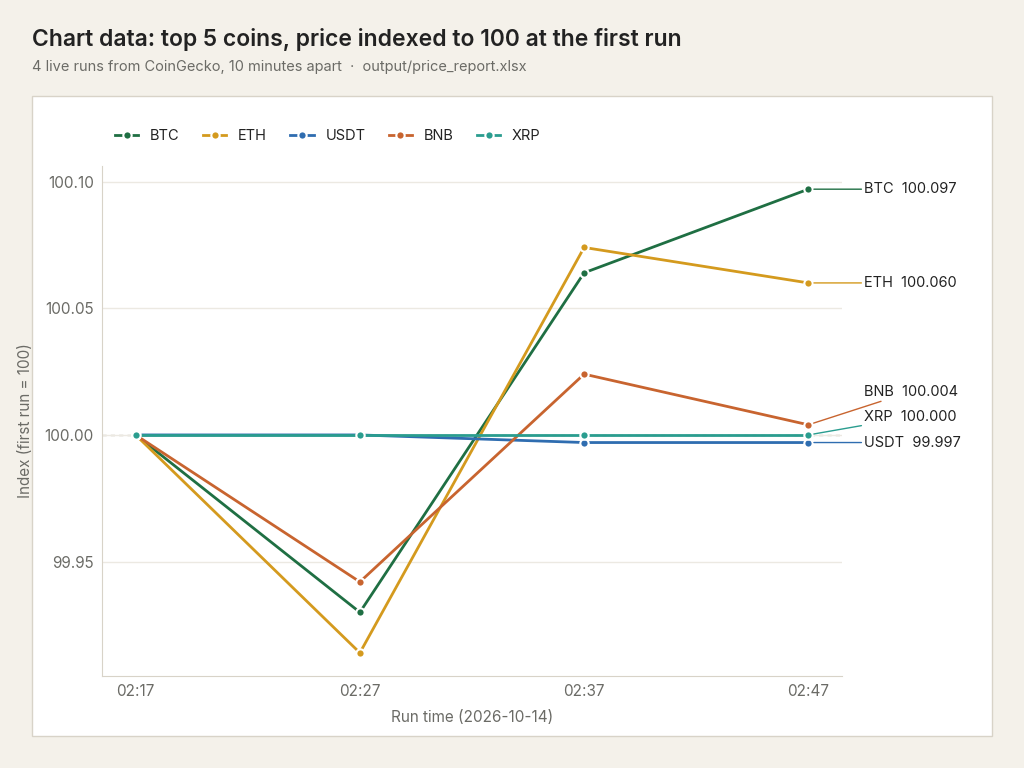
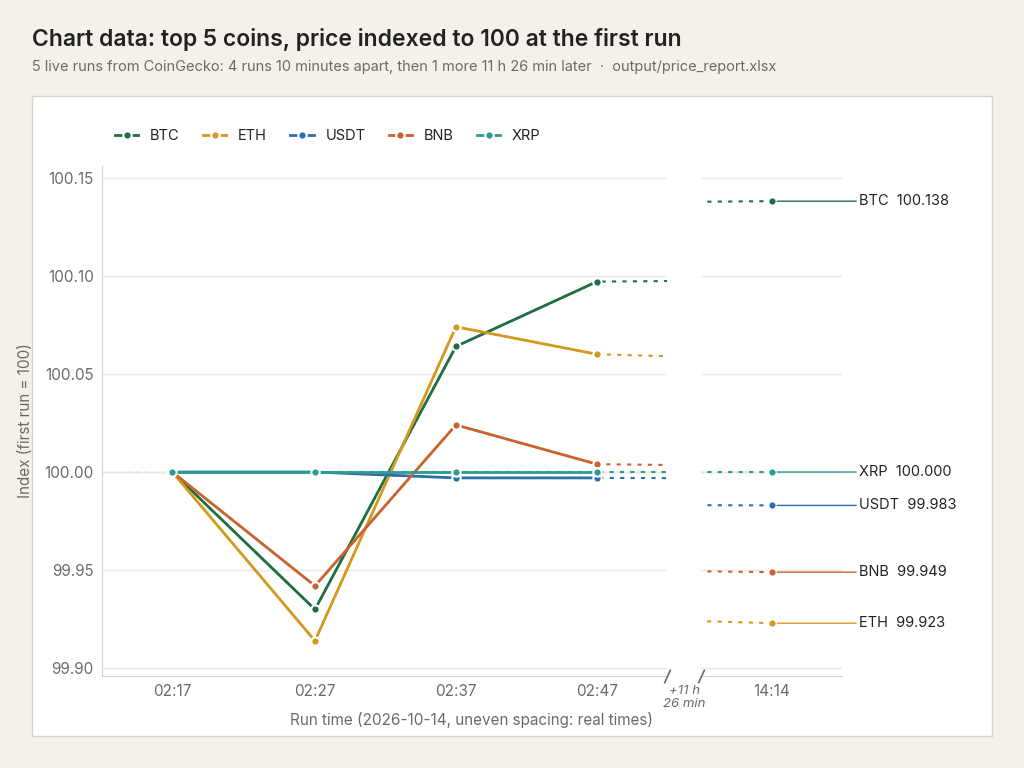
Price tracker: run numbering + alerts screenshot

diff --git a/price-tracker/tracker.py b/price-tracker/tracker.py
@@ -159,7 +159,7 @@ def write_report(con, latest: pd.DataFrame, alerts: pd.DataFrame, threshold: flo
 
 # ---------- main ----------
 
-def run_once(args, run_no: int):
+def run_once(args):
     run_at = datetime.now().strftime("%Y-%m-%d %H:%M:%S")
     rows = fetch_prices(args.coins)
     con = connect(args.db)
@@ -170,10 +170,10 @@ def run_once(args, run_no: int):
     con.close()
 
     if latest["prev_price"].isna().all():
-        print(f"Run {run_no} at {run_at}: {len(rows)} prices saved (first run, nothing to compare yet)")
+        print(f"Run {n_runs} at {run_at}: {len(rows)} prices saved (first run, nothing to compare yet)")
     else:
         moves = ", ".join(f"{r.symbol} {r.change_pct:+.2f}%" for r in alerts.itertuples()) or "none"
-        print(f"Run {run_no} at {run_at}: {len(rows)} prices, {len(alerts)} moved "
+        print(f"Run {n_runs} at {run_at}: {len(rows)} prices, {len(alerts)} moved "
               f">= {args.threshold}% ({moves})")
     print(f"  report updated: {args.output.name}  (history: {n_runs} runs)")
 
@@ -191,7 +191,7 @@ def main():
 
     total = args.runs if args.every else 1
     for i in range(1, total + 1):
-        run_once(args, i)
+        run_once(args)
         if i < total:
             time.sleep(args.every * 60)
 
